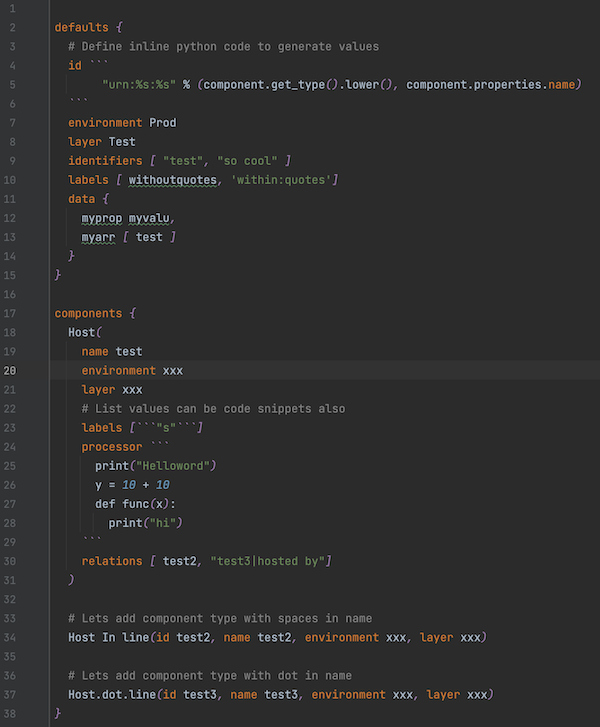
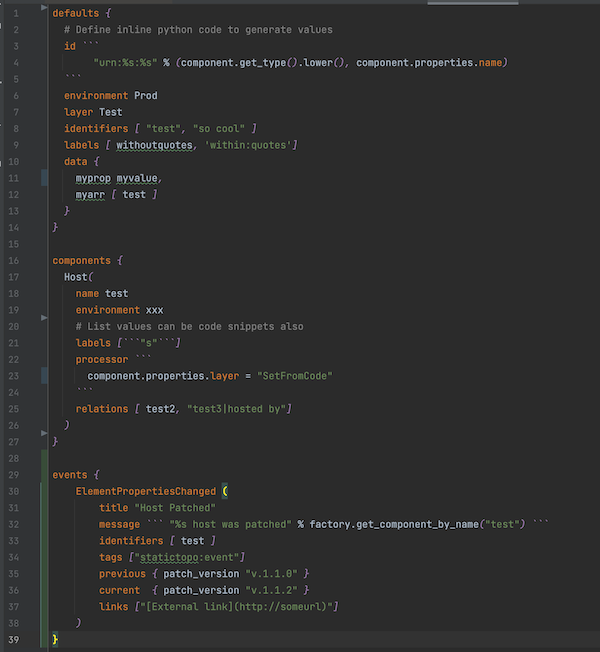
Updated documentation for events.

diff --git a/README.md b/README.md
@@ -2,7 +2,7 @@
 
 ## Overview
 
-StackState Static Topology DSL allows you to easily define components, relations and health
+StackState Static Topology DSL allows you to easily define components, relations, events and health
 in `.topo` files using a ___Topology Language___.
 
 
